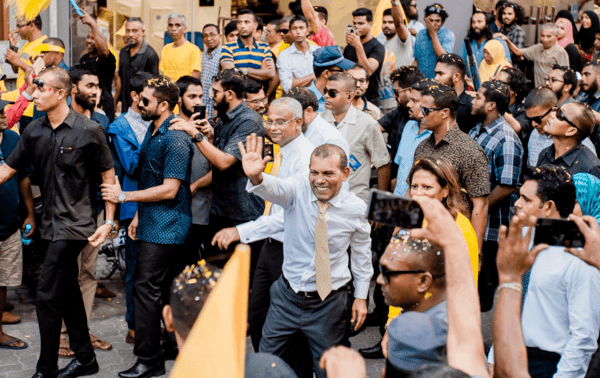
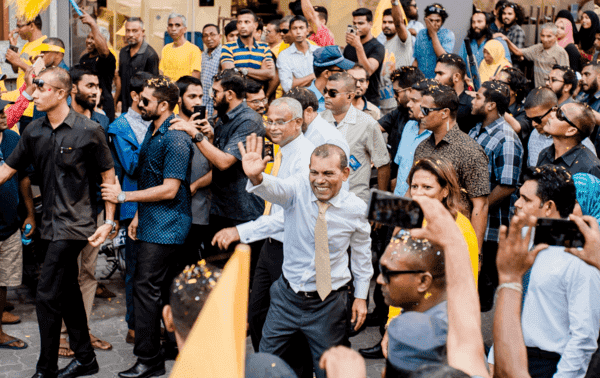
comprimí img de slider y noticias. Tabién agregué margin top a fomulario en mobiles

diff --git a/index.html b/index.html
@@ -226,7 +226,7 @@
                 <div class="col-md-6 col-sm-12  wow animate__animated animate__fadeInUp" data-wow-delay="0.1s">
                     <img src="img/contact/contact.png" alt="imagen de persona hablando por teléfono" class="w-100">
                 </div>
-                <div class="col-md-6 col-sm-12 wow animate__animated animate__fadeInUp" data-wow-delay="0.2s">
+                <div class="col-md-6 col-sm-12 wow animate__animated animate__fadeInUp cardsSmMarginTop" data-wow-delay="0.2s">
                     <div id="alert" role="alert"></div>
                     <form onsubmit="validarGeneral(event)" id="formulario">
                         <div class="mb-3">

diff --git a/css/style.css b/css/style.css
@@ -153,9 +153,6 @@ li .active:hover {
 }
 
 
-/* NOTICIAS */
-
-
 /* CONTACTO */
 
 .btn-primary:hover {
